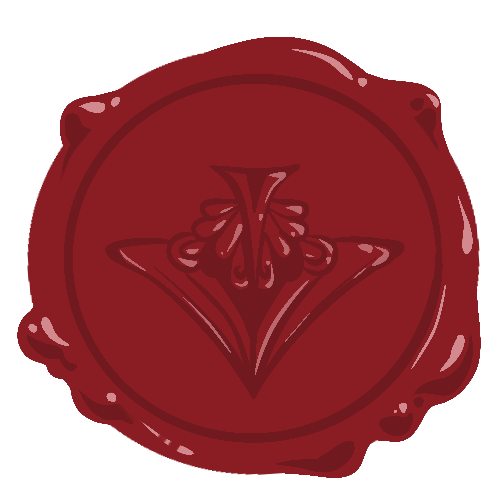
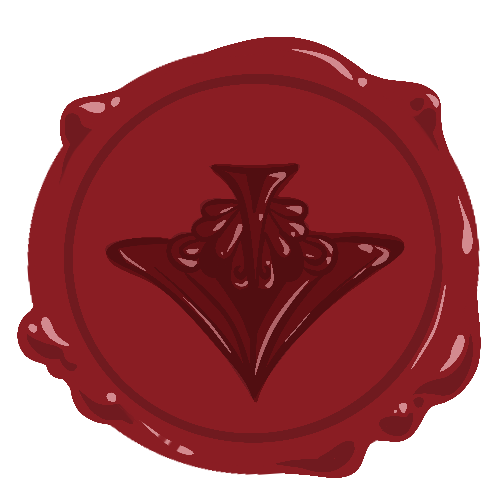
updated and tweaked title screen, changed test scene to day 1 morning

Changed region(s): [[0.21, 0.33, 0.81, 0.81]]

diff --git a/Love and Other Monsters/Assets/Scripts/TitleIntro/StartTextBehavior.cs b/Love and Other Monsters/Assets/Scripts/TitleIntro/StartTextBehavior.cs
@@ -17,6 +17,7 @@ public class StartTextBehavior : MonoBehaviour
     public float fadeSpeed = 0.5f;
     int index = 0;
 
+
     // Start is called before the first frame update
     void Start()
     {
@@ -28,7 +29,7 @@ public class StartTextBehavior : MonoBehaviour
     // Update is called once per frame
     void Update()
     {
-
+        //WaitForStudio();
         if (fadein)
         {
             float objectAlpha = paragraphs[index].GetComponent<CanvasGroup>().alpha;
@@ -89,4 +90,8 @@ public class StartTextBehavior : MonoBehaviour
             }
         }
     }
+    //public IEnumerator WaitForStudio()
+    //{
+    //    yield return new WaitForSeconds(f);
+    //}
 }
